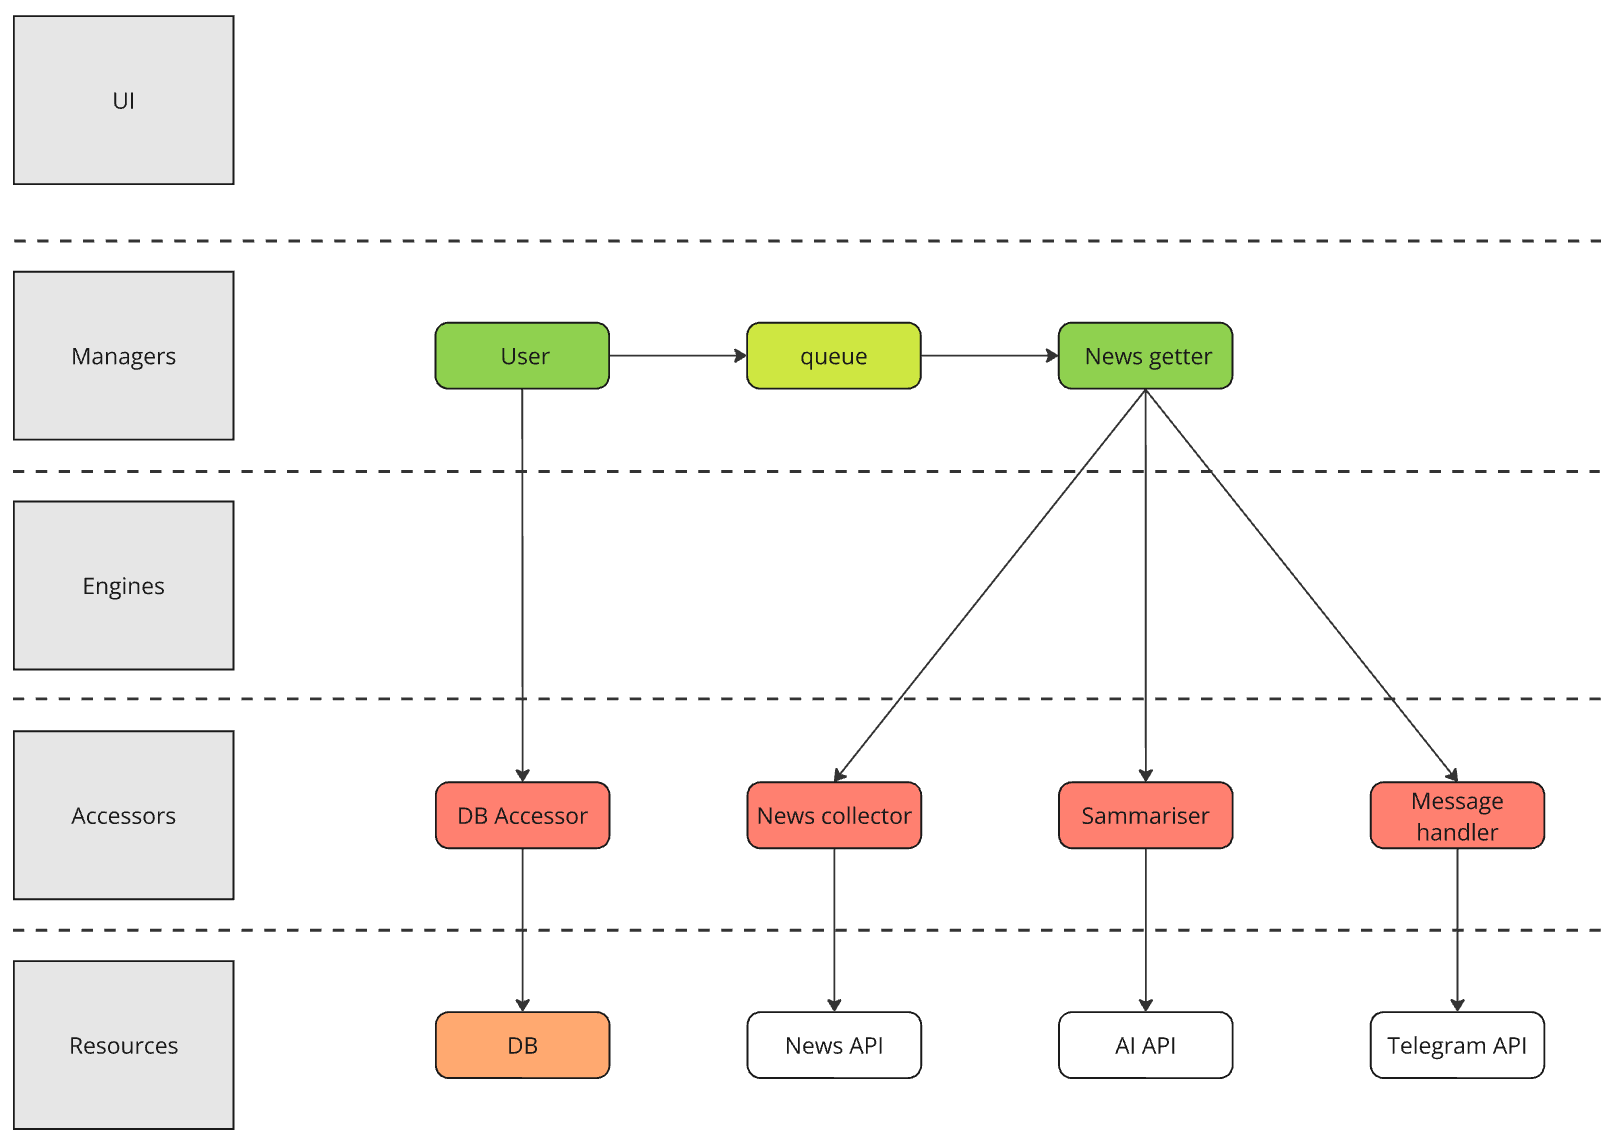
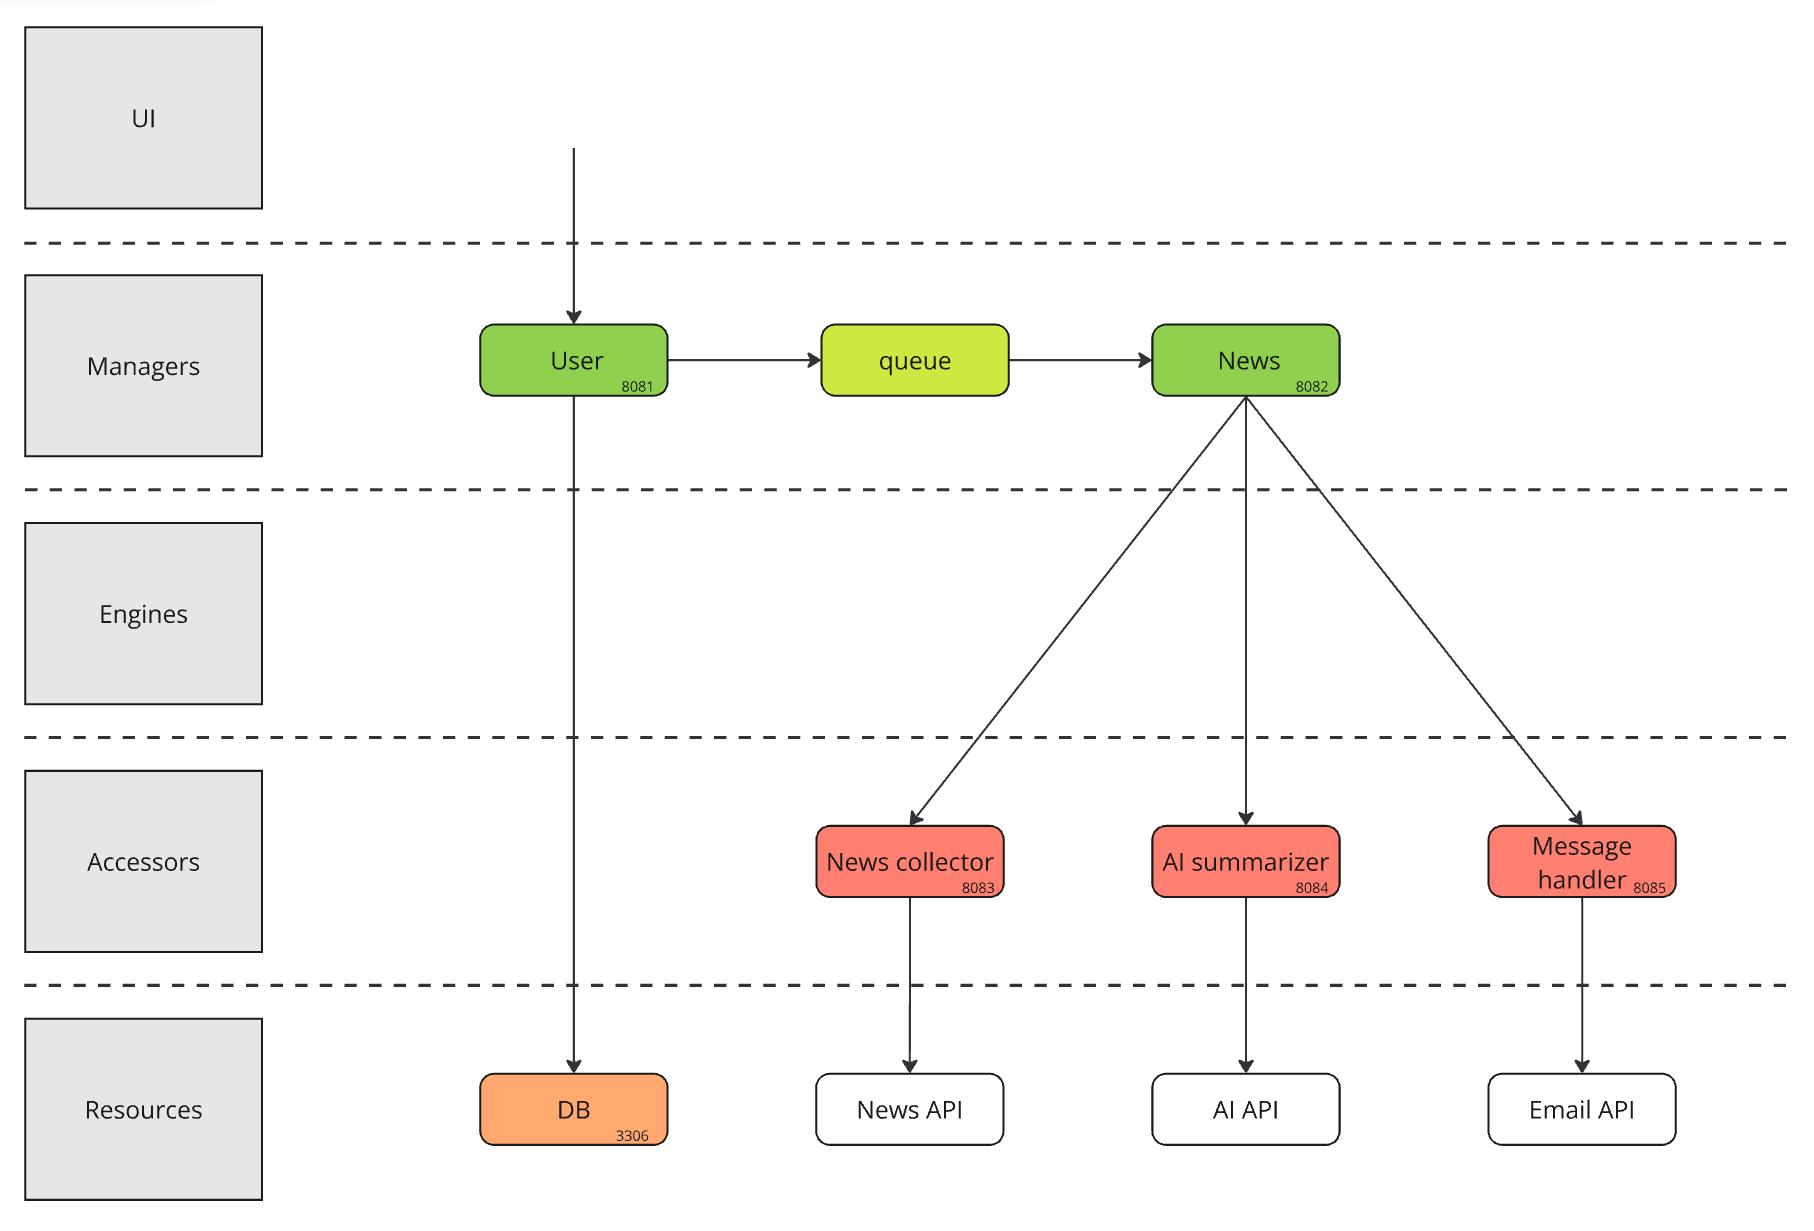
doc: add some info about project (#11)

diff --git a/README.md b/README.md
@@ -2,8 +2,68 @@
 
 ## About the project
 #### What?
-A microservice-based application for fetching news based on user-specified preferences. Once the callback system is activated, it delivers the most relevant news through the specified channel.
+A microservice-based application for fetching news based on user-specified preferences. Once news are requested, app it delivers the most relevant news to the provided topic through the email.
+
+#### Why?
+The project is designed to practice building microservice architecture and interacting with various APIs.
+
+#### State of the project
+Currently, the project has completed the active development stage, the core functuanality is established. But there are lot's of things to polish
+
+#### Used technologies
+- [Python/Flask](https://flask.palletsprojects.com/en/stable/quickstart/)
+- [Ruby/Rails](https://rubyonrails.org/)
+- [Docker](https://www.docker.com/)
+- [Dapr](https://docs.dapr.io/)
+- RabbitMQ
+- [MySQL](https://www.mysql.com/)
+- [Google AI Studio](https://aistudio.google.com/prompts/new_chat)
+- [Google Gmail API](https://developers.google.com/gmail/api/quickstart/python)
+- [The Guardian Open Platform](https://open-platform.theguardian.com/)
+
+## API Documentation
+[Check here after you started the project](http://127.0.0.1:8081/api-docs/index.html)
 
 ## Aplication overview
 ### Microservice arcitecture
 ![screenshot goes here](/docs/project_arcitecture.png)
+
+## Run the application
+1. Clone the repository  
+```sh
+git clone https://github.com/PlaksinAnton/news_aggregator.git
+```      
+
+2. Before running the application it is important to get all secret keys for APIs configured.    
+- Create .env file in project root directory:
+```sh
+nano .env
+```      
+- You will be filling it with next variables:
+```
+GUARDIAN_API_KEY=
+GEMINI_API_KEY=
+RAILS_MASTER_KEY=
+MYSQL_ROOT_PASSWORD=
+```   
+- Get your own key for the news API [here](https://open-platform.theguardian.com/access/).    
+- Get your own key for the AI API [here](https://aistudio.google.com/apikey).    
+- Proper way to set up `RAILS_MASTER_KEY` for user manager service (for development) would be get Ruby on Rails and regeneraite credentials.yaml.enc file.    
+Since the project is educational, I am sharing the master key publicly: `ac7ca3b008a4db5d586ddef0ce8970c1`
+- `MYSQL_ROOT_PASSWORD` can be set up at your discretion.    
+
+3. To set up Google Gmail API it is important to put your `credentials.json` to `./accessors/message_handler/` directory.    
+How to set up your google api watch [here](https://www.youtube.com/watch?v=1Ua0Eplg75M), to generate credentials go [here](https://developers.google.com/gmail/api/quickstart/python).
+
+4. Now you are ready to go! Run:    
+```sh
+docker compose up -d --build
+```    
+
+## Things for future development
+
+- Add an ID to requests to distinguish callback messages.    
+
+- Implement post field verification for news requests on behalf of the user manager. 
+
+- Add a check and notification for email correctness.
